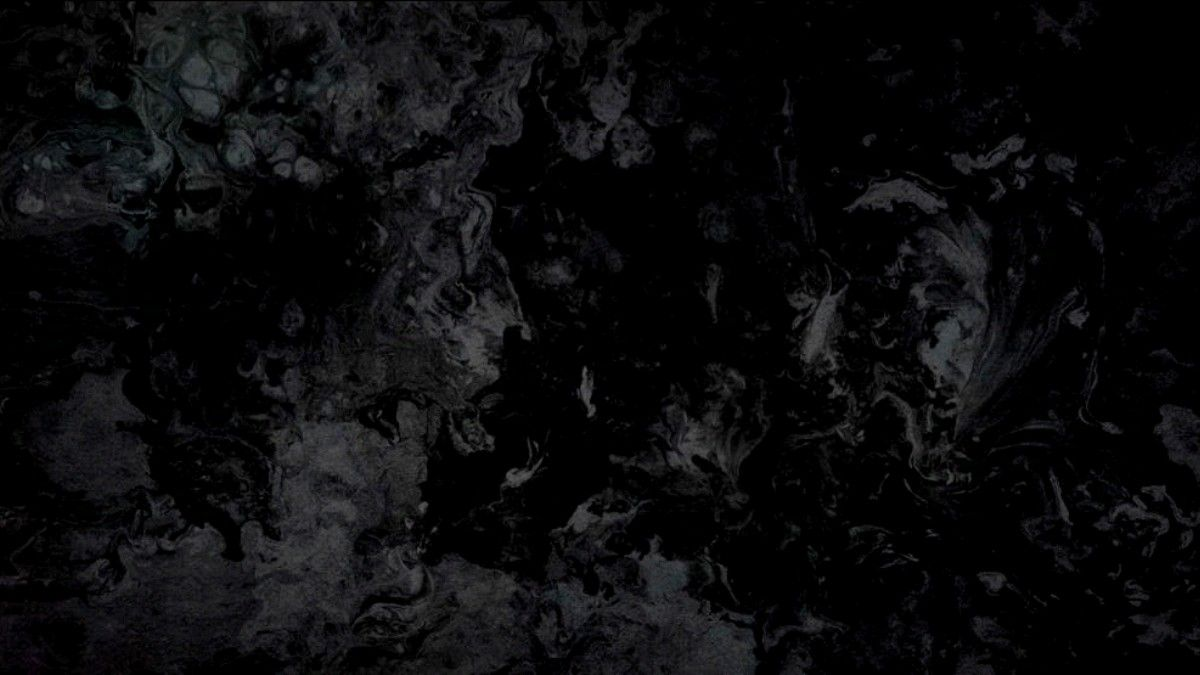
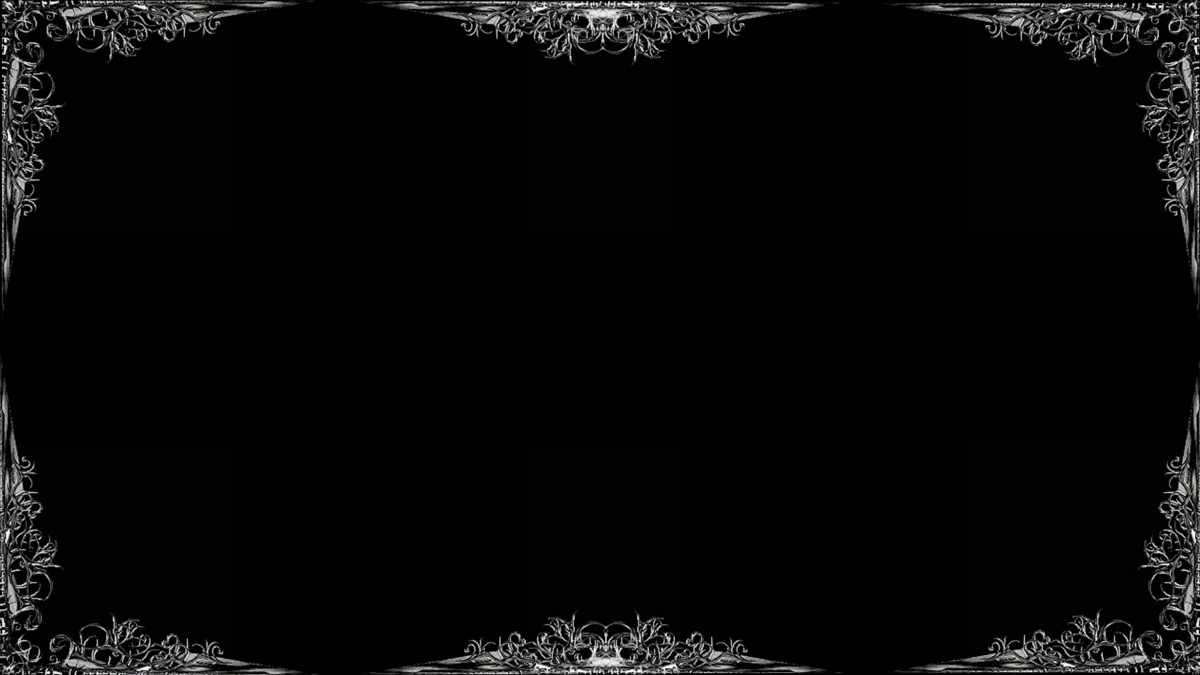
login page changes and homepage some portion

diff --git a/login.css b/login.css
@@ -1,4 +1,6 @@
-body {
+*,*::before,*::after{box-sizing:border-box}body,h1,h2,h3,h4,p,figure,blockquote,dl,dd{margin:0}ul[role="list"],ol[role="list"]{list-style:none}html:focus-within{scroll-behavior:smooth}body{min-height:100vh;text-rendering:optimizeSpeed;line-height:1.5}a:not([class]){text-decoration-skip-ink:auto}img,picture{max-width:100%;display:block}input,button,textarea,select{font:inherit}@media(prefers-reduced-motion:reduce){html:focus-within{scroll-behavior:auto}*,*::before,*::after{animation-duration:.01ms !important;animation-iteration-count:1 !important;transition-duration:.01ms !important;scroll-behavior:auto !important}}
+
+body#loginBody {
     background: url('../images/login-background.jpg') no-repeat center center;
     background-size: cover;
     min-height : 100vh;
@@ -7,22 +9,19 @@ body {
 
 div.loginHeader{
     text-align:center;
-}
-
-div.loginHeader{
-    margin-bottom: 60px;
+    padding: 80px;
 }
 
 div.loginHeader h1{
-    font-size: 100px;
+    font-size: 70px;
     color:white;
     padding:0px;
-    margin:0px;
+    margin:20px 0px 10px 0px;
 }
 
 div.loginHeader p{
     color: white;
-    font-size:50px;
+    font-size:30px;
     margin:0px;
     text-transform: uppercase;
     display: inline-block;
@@ -53,6 +52,7 @@ div.loginInputsContainer label{
     font-size:20px;
     font-weight:bold;
     color:#fff;
+    margin-bottom:10px;
 }
 
 div.loginInputsContainer input{
@@ -63,6 +63,7 @@ div.loginInputsContainer input{
     padding:5px;
     text-align:center;
     font-style:italic;
+    margin-bottom:5px;
 }
 
 div.loginButtonContainer{
@@ -76,9 +77,26 @@ div.loginButtonContainer button{
     background: black;
     border:rgb(255, 0, 0);
     color:white;
-
-
-
+    border:2px solid #fff;
+    border-radius:8px;
 }
+
+    div.header{
+        width:100%;
+        height: 20px;
+        background : grey;
+    }
+
+    div.banner{
+        background: url('../images/homepage-background.webp') no-repeat center center;
+    background-size: cover;
+    }
+
+    div.homepageContainer{
+        width:100%;
+        max-width:900px;
+        margin: 0 auto;
+        color:#fff;
+    }
 
 

diff --git a/homepage.html b/homepage.html
@@ -1,0 +1,25 @@
+<!DOCTYPE html>
+<html lang="en">
+<head>
+    <meta charset="UTF-8">
+    <meta name="viewport" content="width=device-width, initial-scale=1.0">
+    <title>IMS Homepage - Inventory Management System</title>
+    <link rel="stylesheet" type="text/css" href="login.css">
+</head>
+<body>
+    <div class="header"></div>
+    <div class="banner">
+    <div class="homepageContainer">
+        <div class="bannerHeader">
+        <h1>IMS</h1>
+        <p>Inventory Management System</p>
+        </div>
+        <p class="bannerTagLine"> Track your goods throughout your entire supply chain, from purchasing to production end sales
+    </p>
+<div class="bannericons">
+
+    </div>
+    </div>
+</div>
+</body>
+</html>

diff --git a/login.html b/login.html
@@ -6,7 +6,7 @@
     <title>IMS Login - Inventory Management System</title>
     <link rel="stylesheet" type="text/css" href="login.css">
 </head>
-<body>
+<body id="loginBody">
     <div class="container">
     <div class ="loginHeader">
         <h1>IMS</h1>
@@ -20,7 +20,7 @@
                 </label>
                 <input placeholder="username" type="text"/>
             </div>
-<div class ="loginInputsContainer">
+            <div class ="loginInputsContainer">
                 <label for="Password">
                     Password
                 </label>